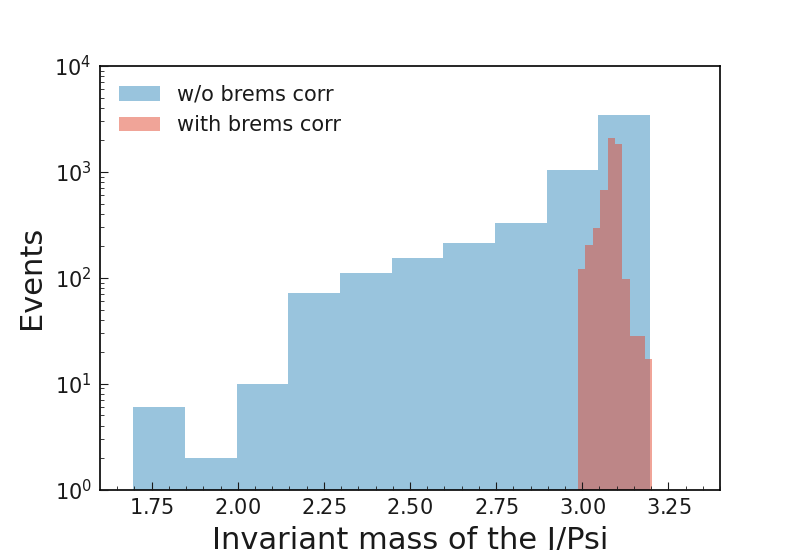
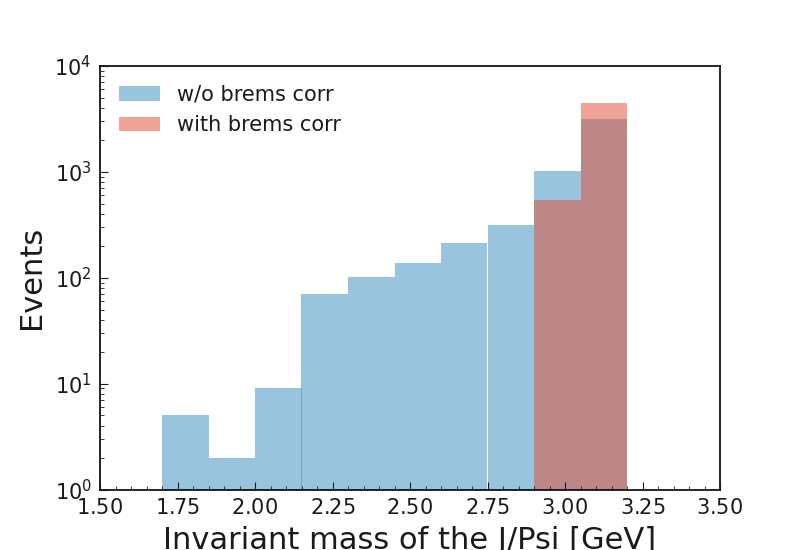
add unit to x-label, set limits for x-axis, and fix binning

Changed region(s): [[0.1562, 0.1855, 0.9375, 1.0], [0.4062, 0.4636, 0.5625, 0.5564], [0.0938, 0.8964, 0.1562, 0.9582]]

diff --git a/online_book/basf2/roe/invariant_mass_plot.py b/online_book/basf2/roe/invariant_mass_plot.py
@@ -28,11 +28,12 @@ df_signal_only = df.query("Jpsi_isSignal == 1")
 
 fig, ax = plt.subplots()
 
-ax.hist(df_signal_only["Jpsi_M_uncorrected"], label="w/o brems corr", alpha=0.5)
-ax.hist(df_signal_only["Jpsi_M"], label="with brems corr", alpha=0.5)
+ax.hist(df_signal_only["Jpsi_M_uncorrected"], label="w/o brems corr", alpha=0.5, range=(1.7, 3.2))
+ax.hist(df_signal_only["Jpsi_M"], label="with brems corr", alpha=0.5, range=(1.7, 3.2))
 
 ax.set_yscale("log")  # set a logarithmic scale in the y-axis
-ax.set_xlabel("Invariant mass of the J/Psi")
+ax.set_xlabel("Invariant mass of the J/Psi [GeV]")
+ax.set_xlim(1.5, 3.5)
 ax.set_ylabel("Events")
 ax.legend()  # show legend
 
